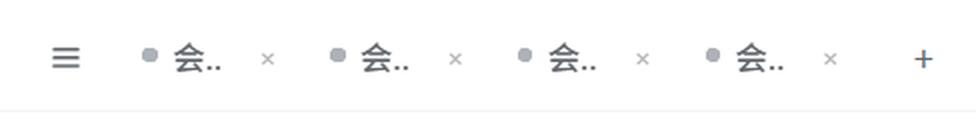
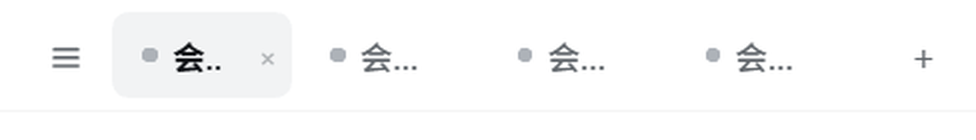
docs(tabbar): refresh screenshots for the hidden-close-button change
Re-measured at 390x844 with touch emulation: inactive tabs keep 36px of
title space with their close button hidden, the active tab keeps the
button at 20px, and 16 tabs are still all retained. The validation page
now records the text-width trade-off instead of the earlier open issue.

diff --git a/docs/features/261026-tabbar-width/261026-tabbar-width.validation.md b/docs/features/261026-tabbar-width/261026-tabbar-width.validation.md
@@ -18,22 +18,20 @@
 | 390px 视口：3 个标签 | 每个约 99px（未触底） | 99 / 99 / 99（容器 304） | 通过 | — |
 | 390px 视口：6 个标签 | 触底 72px 并开始横向滚动 | 6 × 72px，`scrollWidth 447 > 304` | 通过 | 见 `assets/mobile-6-tabs-390.png` |
 | 390px 视口：16 个标签 | 全部保留，条带可横向滚动 | 16 个 `.astb-tab`，均 72px，`scrollWidth 1197` | 通过 | 同上第二张图 |
+| 390px 视口：非活动标签的 × | 默认隐藏，仅活动标签或悬停时显示 | 非活动标题宽 36px、`×` 为 `display:none`；活动标签标题 20px、`×` 可见 | 通过 | 见 `assets/mobile-6-tabs-390.png` |
 | 触屏：点标签的 × | 立即重排，不等 pointerleave | 关闭后 250ms 内 99 → 150px；`(hover: hover)` = false | 通过 | 触摸分支守卫生效 |
 | 真机 iOS / Android | 触摸点按、惯性滚动、输入法交互 | — | 待验证 | 仅做 Chromium 触屏模拟 |
 | Firefox / Safari 内核 | 布局与横向滚动 | — | 待验证 | 未覆盖 |
 
-## 已知观感问题
+## 文本宽度的取舍
 
-72px 下标签的可用文本宽度只有约 16px（72 − 左右内边距 24 − 状态点 12 − 关闭按钮 20），实际只能显示「一个字 + …」。若要达到 3–4 个字，需要在二者中选一个：
-
-- 隐藏非活动标签的关闭按钮（Chrome 的行为，可多出约 20px）；
-- 把移动端下限再提高到约 96px（一屏可放 3 个左右）。
+72px 下标签的固定开销约为 56px（左右内边距 24 + 状态点与间距 12 + 关闭按钮与间距 20），所以早期版本只剩约 16px 文本，实测只显示「一个字 + …」。改为**非活动标签不显示 ×** 后，文本宽度回到 36px；活动标签仍保留 ×（20px 文本）。触屏没有 hover，因此点一下先激活、再点 × 关闭；中键与右键菜单仍可直接关闭。
 
 ## 验证结论
 
-功能行为全部符合预期：自适应宽度、72px 移动端下限、取消数量上限、鼠标延迟重排与触屏立即重排均按设计工作。移动端标题可读性仍不足，待决定是否隐藏非活动标签的关闭按钮。
+功能行为全部符合预期：自适应宽度、72px 移动端下限、取消数量上限、鼠标延迟重排、触屏立即重排，以及非活动标签隐藏关闭按钮均按设计工作。
 
 ## 待跟进
 
-- 非活动标签隐藏 ×（Chrome 语义），或在窄屏提高下限。
-- 真机与 Firefox / Safari 验证。
+- 真机 iOS / Android 与 Firefox / Safari 验证。
+- 若真机上 36px 文本仍偏窄，可把移动端下限提高到约 88–96px（一屏 3 个左右）。
